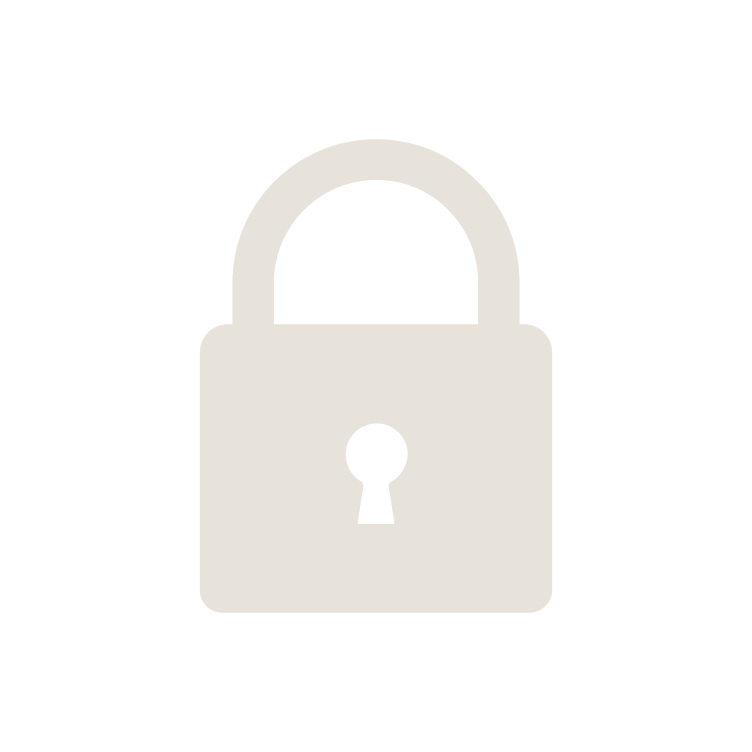
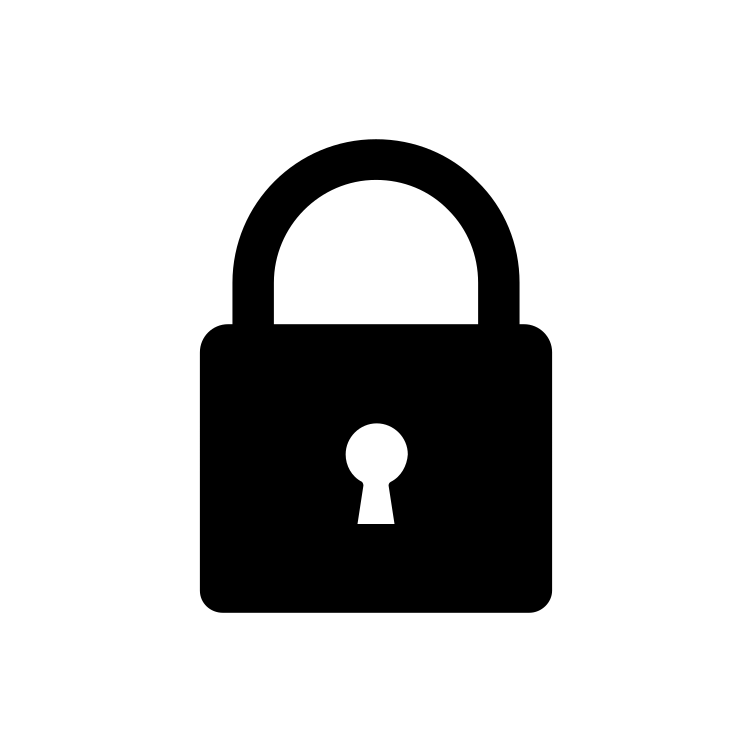
more more more

Changed region(s): [[0.2447, 0.1835, 0.734, 0.8258]]

diff --git a/public/css/style.css b/public/css/style.css
@@ -78,6 +78,7 @@ body {
 h3 {
   color: var(--blunderBlack);
   text-align: center;
+  font-size: 20px;
 }
 
 u {
@@ -121,7 +122,7 @@ canvas {
 
   margin-left: auto;
   margin-right: auto;
-
+width: 80%;
 }
 
 /*-------------------------------------------------------*/
@@ -181,7 +182,7 @@ canvas {
 
 /*--The follwing main body belongs to the browser page--*/
 
-.website-content .top {
+.top {
 
   display: block;
   margin-left: auto;
@@ -225,25 +226,56 @@ canvas {
 
 }
 
+/* The container <div> - needed to position the dropdown content */
+.dropdown {
+  position: relative;
+  display: inline-block;
+}
+
+/* Dropdown Content (Hidden by Default) */
+.dropdown-content {
+  display: none;
+  position: absolute;
+  background-color: #f1f1f1;
+  min-width: 160px;
+  box-shadow: 0px 8px 16px 0px rgba(0,0,0,0.2);
+  z-index: 1;
+}
+
+/* Links inside the dropdown */
+.dropdown-content a {
+  color: black;
+  padding: 12px 16px;
+  text-decoration: none;
+  display: block;
+}
+
+/* Change color of dropdown links on hover */
+.dropdown-content a:hover {background-color: #ddd;}
+
+/* Show the dropdown menu on hover */
+.dropdown:hover .dropdown-content {display: block;}
+
+/* Change the background color of the dropdown button when the dropdown content is shown */
+.dropdown:hover .start{background-color: #3e8e41;}
 
 /*-------------------------------------------------------*/
 .sidebar-1,
 .sidebar-2 {
-  border: 1mm ridge var(--blunderBiege);
+
   width: 200px;
 
 }
 
 .sidebar-1 {
+  border: 1mm ridge var(--blunderBiege);
   order: -1;
   background-color:var(--blunderBlack);
 
 
 }
-ul li img{
-  width: 80px;
-  height: 80px;
-
+ul{
+  position: fixed;
 }
 ul li {
   background-image:linear-gradient(rgba(160, 164, 176, 0.5),
@@ -290,9 +322,8 @@ a:link {
 /*-------------------------------------------------------*/
 
 .sidebar-2 {
-  background-color:var(--blunderBlack);
+  background-color:transparent;
   text-align: center;
-
 
 }
 .step1{
@@ -323,14 +354,12 @@ a:link {
 /*-------------------------------------------------------*/
 footer {
   display: inline-flex;
-  position: relative;
   align-items: center;
   justify-content: left;
 
-height: fit-content;
 
   width: 99%;
-
+ height: 100px;
   letter-spacing: 3px;
   background: var(--blunderBlack);
   border: 1mm ridge var(--blunderBiege);
@@ -350,22 +379,21 @@ height: fit-content;
 	text-align: center;
 	position: relative;
 	width: 99%;
-	height: 700px;
+	height: 800px;
 	display: flex;
 	align-items: center;
 	justify-content: center;
 	overflow: hidden;
-	border-radius:10px;
 
 
 }
 #sociallocker-overlay {
-	background-color: var(--blunderBlack);
+  background-image:linear-gradient(rgba(160, 164, 176, 0.5),
+  rgba(160, 164, 176, 0.5)), url(/static/images/website/banner.jpg);
 	font-size: 30px;
 	font-weight: bold;
-	color: var(--blunderBiege);
-	transition: all 0.2s ease;
-  border: 1mm ridge var(--blunderBiege);
+	color: var(--blunderBlack);
+	transition: all 0.1s ease;
 }
 .lock{
   width: 400px;
@@ -374,11 +402,11 @@ height: fit-content;
 }
 #sociallocker:hover #sociallocker-overlay {
 	top: -120%;
-	transition: all 0.2s linear;
+	transition: all 0.1s linear;
 }
 #sociallocker:hover #sociallocker-content {
 	top: 100%;
-	transition: all 0.2s linear;
+	transition: all 0.1s linear;
 }
 
 #sociallocker-overlay,
@@ -397,114 +425,21 @@ height: fit-content;
 }
 
 
-/* ============================================================================= */
-/* ================================ BROWSE PAGE ================================ */
-/* ============================================================================= */
-
-/* ---------- SCROLLABLE CHALLENGES ---------- *
-
-/*  */
-
-
-/*  */
-.cover{
-  position: relative;
-  width: 500px;
-  height:  460px;
-  /* border: 2px solid blueviolet; */
-}
-/* Fade-out black gradient on the left of the scrollables */
-.cover::before{
-  position: absolute;
-  content: "";
-  left: 0;
-  top: 10px;
-  z-index: 99;
-  height: 100%;
-  width: 150px;
-  background-image: linear-gradient(90deg, black, transparent) ;
-}
-/* Fade-out black gradient on the right of the scrollables */
-.cover::after{
-  position: absolute;
-  content: "";
-  right: -10%;
-  top: 10px;
-  z-index: 99;
-  height: 100%;
-  width: 150px;
-  background-image: linear-gradient(-90deg, black, transparent) ;
-}
-
-/*  */
-.scrolling_images{
-  width: 108%;
-  padding-top: 10px;
-  height: auto;
-  display: flex;
-  justify-content: left;
-  align-items: center;
-  overflow: auto;
-  position: relative;
-  scroll-behavior: smooth;
-}
-/* .scroll_images::-webkit-scrollbar{
-  -webkit-appearance: none;
-} */
-
-/*  */
-.scrolling_img_div{
-  min-width: 600px;
-  height: 450px;
-  margin: 1px 10px;
-  cursor: pointer;
-  overflow: hidden;
-  border: 2px solid white;
-}
-.scrolling_img{
-  width: 100%;
-  height: 100%;
-}
-
-
-
-
-
 /* ---------- Separate the various parts of the website ---------- */
-.separe {
-  margin-top: 50px;
-}
-
-
-
-
-
-/* ---------- J ---------- */
-.playing_modes {
-  display: flex;
-}
-
-
-
 
 
 /* ----- SCOREBOARD ----- */
 /*  */
-.outer_board_section {
-width: 95%;
-height: 100%;
-position: relative;
-border-radius: 5px;
-}
+
 
 /*  */
 .inner_board_section {
-position: absolute;
-background: #ffd300;
-width: 95%;
-height: 115%;
-border-radius: 5px;
-  padding: 25px;
+background: transparent;
+margin-left: auto;
+margin-right: auto;
+align-items: center;
+height: auto;
+
 }
 
 /*  */
@@ -512,7 +447,10 @@ border-radius: 5px;
 display: flex;
 align-items: center;
 padding: 15px 0;
-border-bottom: 1px solid #ffe773;
+border-bottom: 1px transparent;
+background-color: transparent;
+backdrop-filter: blur(2px);
+border: 1mm ridge var(--blunderBlack);
 }
 .board_content:first-child {
 padding-top: 0;
@@ -526,7 +464,7 @@ display: block;
 width: 100%;
 }
 .img {
-width: 50px;
+width: 100px;
 }
 
 /*  */
@@ -545,7 +483,7 @@ margin-right: 5px;
 .score_bar_wrap {
 width: 100%;
 height: 5px;
-background: #d5b000;
+background: transparent;
 margin-top: 5px;
 border-radius: 5px;
 position: relative;

diff --git a/public/index.html b/public/index.html
@@ -52,11 +52,6 @@
                        
   </section>
 
-  <!-- <h3> Login or Register to play</h3>
-        <form class="game-preview-choose">
-          <button class="start"><h4>Login</h4></button>
-          <button class="start"><h4>Register</h4></button>
-        </form> -->
      
       </main>
 
@@ -78,11 +73,6 @@
 </div>
 
       </sidebar>
-
-      <!-- <sidebar class="sidebar-2 w-sidebar">
-        <a href="./index.html"><img src="./CSS/images/sidebar5.png" width="30" /></a>
-        <a href="./index.html"><img src="./CSS/images/sidebar2.png" /></a>
-      </sidebar> -->
 
       
     </section>
